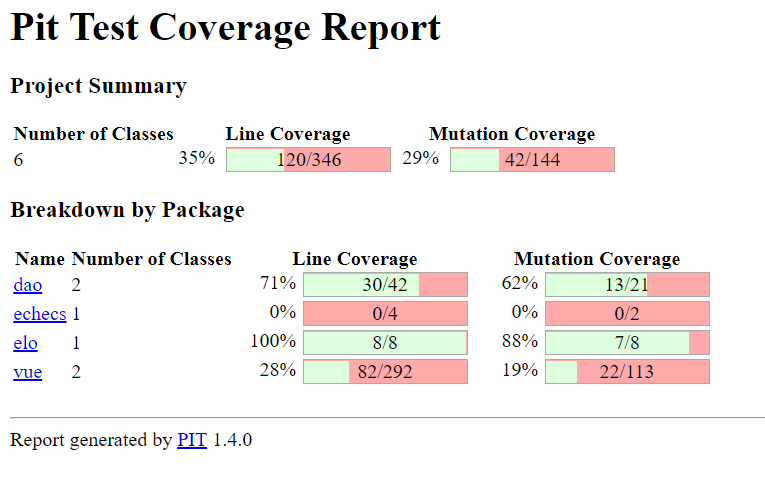
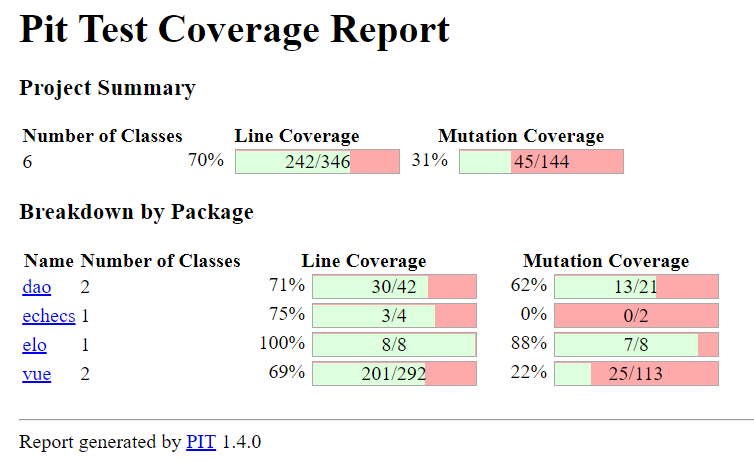
Ajout de plus de test

diff --git a/src/test/java/vue/FrmNouveauNGTest.java b/src/test/java/vue/FrmNouveauNGTest.java
@@ -1,0 +1,67 @@
+/*
+ * To change this license header, choose License Headers in Project Properties.
+ * To change this template file, choose Tools | Templates
+ * and open the template in the editor.
+ */
+package vue;
+
+import static org.testng.Assert.*;
+import org.testng.annotations.AfterClass;
+import org.testng.annotations.AfterMethod;
+import org.testng.annotations.BeforeClass;
+import org.testng.annotations.BeforeMethod;
+import org.testng.annotations.Test;
+
+/**
+ *
+ * @author Gabrielp
+ */
+public class FrmNouveauNGTest {
+    
+    public FrmNouveauNGTest() {
+    }
+
+    @BeforeClass
+    public static void setUpClass() throws Exception {
+    }
+
+    @AfterClass
+    public static void tearDownClass() throws Exception {
+    }
+
+    @BeforeMethod
+    public void setUpMethod() throws Exception {
+    }
+
+    @AfterMethod
+    public void tearDownMethod() throws Exception {
+    }
+
+    /**
+     * Test of getInstance method, of class FrmNouveau.
+     */
+    @Test
+    public void testGetInstance() {
+        System.out.println("getInstance");
+        /*
+        FrmMain mainWin = new FrmMain();
+        FrmMain expResult = mainWin;
+        FrmNouveau result = FrmNouveau.getInstance(mainWin);
+        assertEquals(result, expResult);*/
+
+    }
+
+    /**
+     * Test of valide method, of class FrmNouveau.
+     */
+    @Test
+    public void testValide() {
+        System.out.println("valide");
+        FrmNouveau instance = new FrmNouveau();
+        boolean expResult = false;
+        boolean result = instance.valide();
+        assertEquals(result, expResult);
+
+    }
+    
+}

diff --git a/src/test/java/echecs/MainNGTest.java b/src/test/java/echecs/MainNGTest.java
@@ -1,0 +1,50 @@
+/*
+ * To change this license header, choose License Headers in Project Properties.
+ * To change this template file, choose Tools | Templates
+ * and open the template in the editor.
+ */
+package echecs;
+
+import static org.testng.Assert.*;
+import org.testng.annotations.AfterClass;
+import org.testng.annotations.AfterMethod;
+import org.testng.annotations.BeforeClass;
+import org.testng.annotations.BeforeMethod;
+import org.testng.annotations.Test;
+
+/**
+ *
+ * @author Gabrielp
+ */
+public class MainNGTest {
+    
+    public MainNGTest() {
+    }
+
+    @BeforeClass
+    public static void setUpClass() throws Exception {
+    }
+
+    @AfterClass
+    public static void tearDownClass() throws Exception {
+    }
+
+    @BeforeMethod
+    public void setUpMethod() throws Exception {
+    }
+
+    @AfterMethod
+    public void tearDownMethod() throws Exception {
+    }
+
+    /**
+     * Test of main method, of class Main.
+     */
+    @Test
+    public void testMain() {
+        System.out.println("main");
+        String[] args = null;
+        Main.main(args);
+    }
+    
+}
